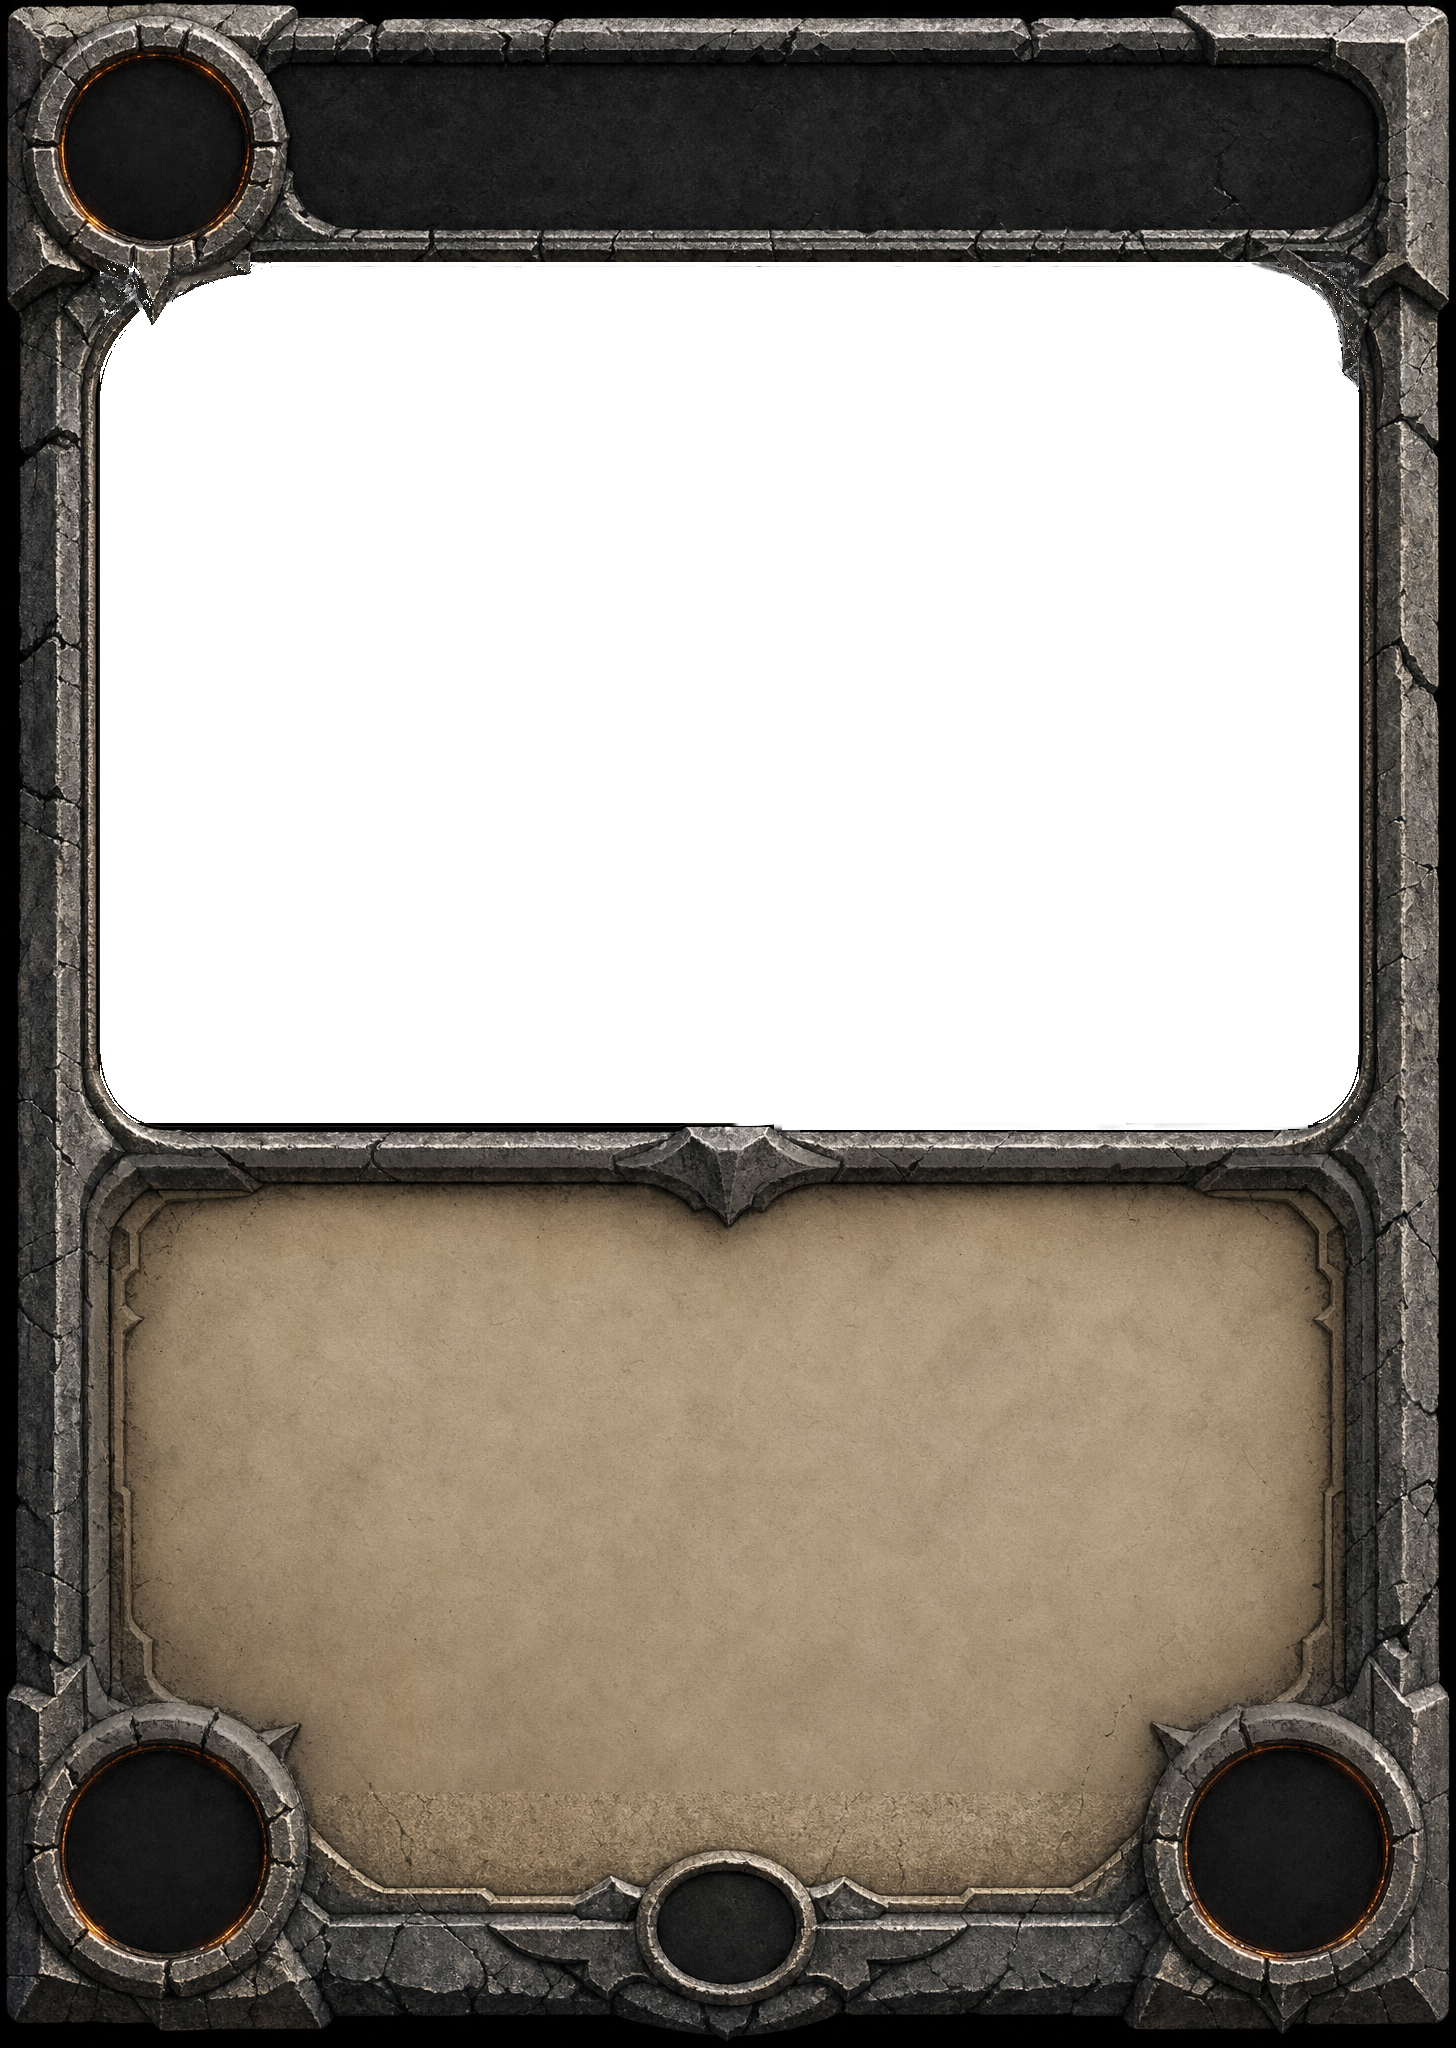
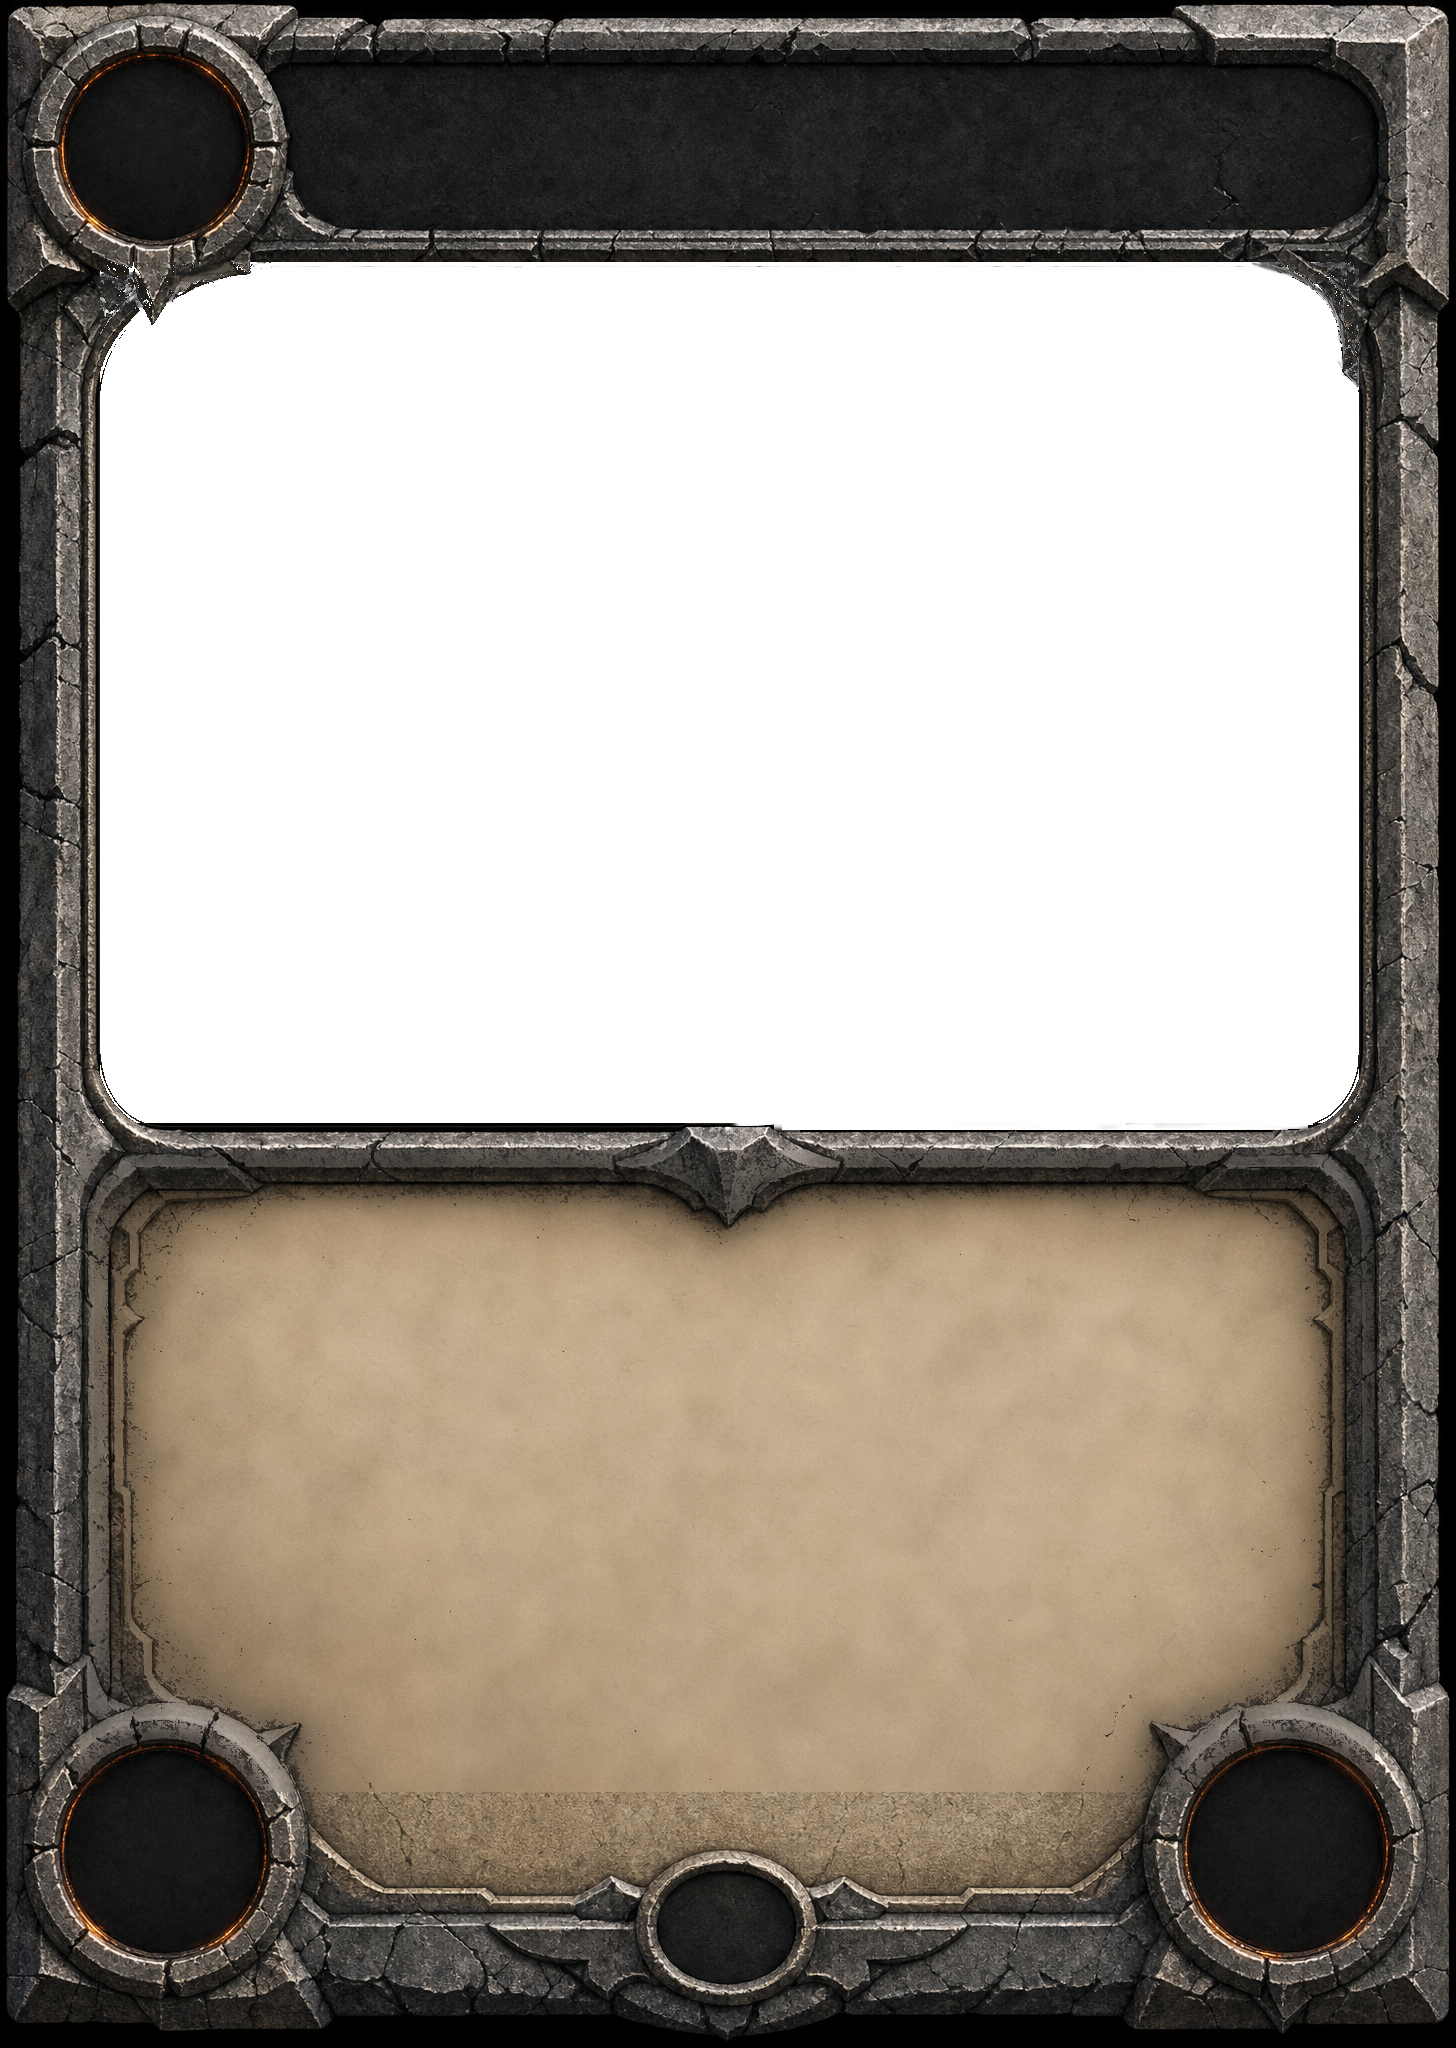
feat(art): rules-text legibility pass 2 — bold 108px body, calmer brighter parchment
Sam's live read: even bold short rules text strained at board scale, and the
first flatten left too much grain. Body goes 85->108px equivalent and bold
(§3 mobile-legibility requirement), with a 78px auto-shrink floor for long
texts; keyword lead pins to 115% of body (~124px) so it holds steady as the
body grew. flatten_parchment.py gains a brighten knob; shipped frames now
derive at k=0.85 brighten=1.12. The Scorch/FlameBolt mismatch Sam spotted was
live-preview drift (cards drawn after the preview kept committed values), gone
now that the values are baked.

diff --git a/tooling/scripts/flatten_parchment.py b/tooling/scripts/flatten_parchment.py
@@ -10,12 +10,15 @@ bosses), light parchment-like pixels blend toward a heavy gaussian blur of
 themselves — grain vanishes, carved dark ornament stays crisp (excluded by
 the luminance mask).
 
-Usage: python flatten_parchment.py [k]   (k = flatten strength 0..1, default 0.65)
+Usage: python flatten_parchment.py [k] [brighten]
+    k        = flatten strength 0..1 (default 0.85 — Sam-approved 2026-07-25)
+    brighten = parchment brightness multiplier (default 1.12; >1 lifts the paper
+               for more contrast under the dark rules ink — mobile legibility)
 """
 import pathlib
 import sys
 
-from PIL import Image, ImageFilter
+from PIL import Image, ImageEnhance, ImageFilter
 
 REPO = pathlib.Path(r"c:\Users\User\Documents\tcg-hearthlike")
 SRC = REPO / "art-bakeoff" / "frames"
@@ -28,7 +31,8 @@ FRAMES = {
     "legendary": "AgedGilt",
 }
 
-K = float(sys.argv[1]) if len(sys.argv) > 1 else 0.65
+K = float(sys.argv[1]) if len(sys.argv) > 1 else 0.85
+BRIGHTEN = float(sys.argv[2]) if len(sys.argv) > 2 else 1.12
 BLUR_RADIUS = 10
 LUMA_FLOOR = 70          # darker pixels = carved ornament/metal, left crisp
 BAND_TOP_GAP = 0.010     # below the art window's bottom rail
@@ -46,9 +50,11 @@ for rarity, frame in FRAMES.items():
 
     band = im.crop((x0, y0, x1, y1))
     flat = Image.blend(band, band.filter(ImageFilter.GaussianBlur(BLUR_RADIUS)), K)
+    if BRIGHTEN != 1.0:
+        flat = ImageEnhance.Brightness(flat).enhance(BRIGHTEN)
     mask = band.convert("L").point(lambda v: 255 if v > LUMA_FLOOR else 0)
     im.paste(Image.composite(flat, band, mask), (x0, y0))
 
     out = DST / f"frame_{rarity}.png"
     im.save(out)
-    print(f"{frame} -> {out.name}: band y {y0}-{y1}, k={K}")
+    print(f"{frame} -> {out.name}: band y {y0}-{y1}, k={K}, brighten={BRIGHTEN}")

diff --git a/unity/Emberfall/Assets/Scripts/Presentation/FrameRarityCatalog.cs b/unity/Emberfall/Assets/Scripts/Presentation/FrameRarityCatalog.cs
@@ -92,8 +92,9 @@ namespace Emberfall.Presentation
         public const float NameLeftClamp = 0.232f;  // name's left edge never crosses this
         public const float NameEm        = 107f / 2048f;
         public const float BodyCenterY   = 0.70f;   // rules-band center
-        public const float BodyEm        = 85f / 2048f;
-        public const int   KeywordLeadPct = 143;    // keyword lead size, % of body
+        public const float BodyEm        = 108f / 2048f;
+        public const float BodyEmFloor   = 78f / 2048f; // auto-shrink floor for long rules text
+        public const int   KeywordLeadPct = 115;    // keyword lead, % of body (~124px — held steady as body grew)
 
         public static readonly Color NameParchment = new Color32(245, 238, 225, 255);
         public static readonly Color BodyInk       = new Color32(28, 18, 12, 255);

diff --git a/unity/Emberfall/Assets/Scripts/Presentation/CardPresenter.cs b/unity/Emberfall/Assets/Scripts/Presentation/CardPresenter.cs
@@ -368,9 +368,12 @@ namespace Emberfall.Presentation
 
             if (bodyLabel != null)
             {
-                // Rules band: dark ink on the frame's parchment.
+                // Rules band: bold dark ink on the frame's parchment (2026-07-25 mobile-
+                // legibility pass — regular-weight slab strokes didn't read at board scale).
                 bodyLabel.color = FrameRarityCatalog.BodyInk;
+                bodyLabel.fontStyle |= FontStyles.Bold;
                 bodyLabel.fontSizeMax = FrameRarityCatalog.BodyEm * H * 10f;
+                bodyLabel.fontSizeMin = FrameRarityCatalog.BodyEmFloor * H * 10f;
                 bodyLabel.rectTransform.localPosition =
                     new Vector3(0f, (0.5f - FrameRarityCatalog.BodyCenterY) * H, z);
             }
